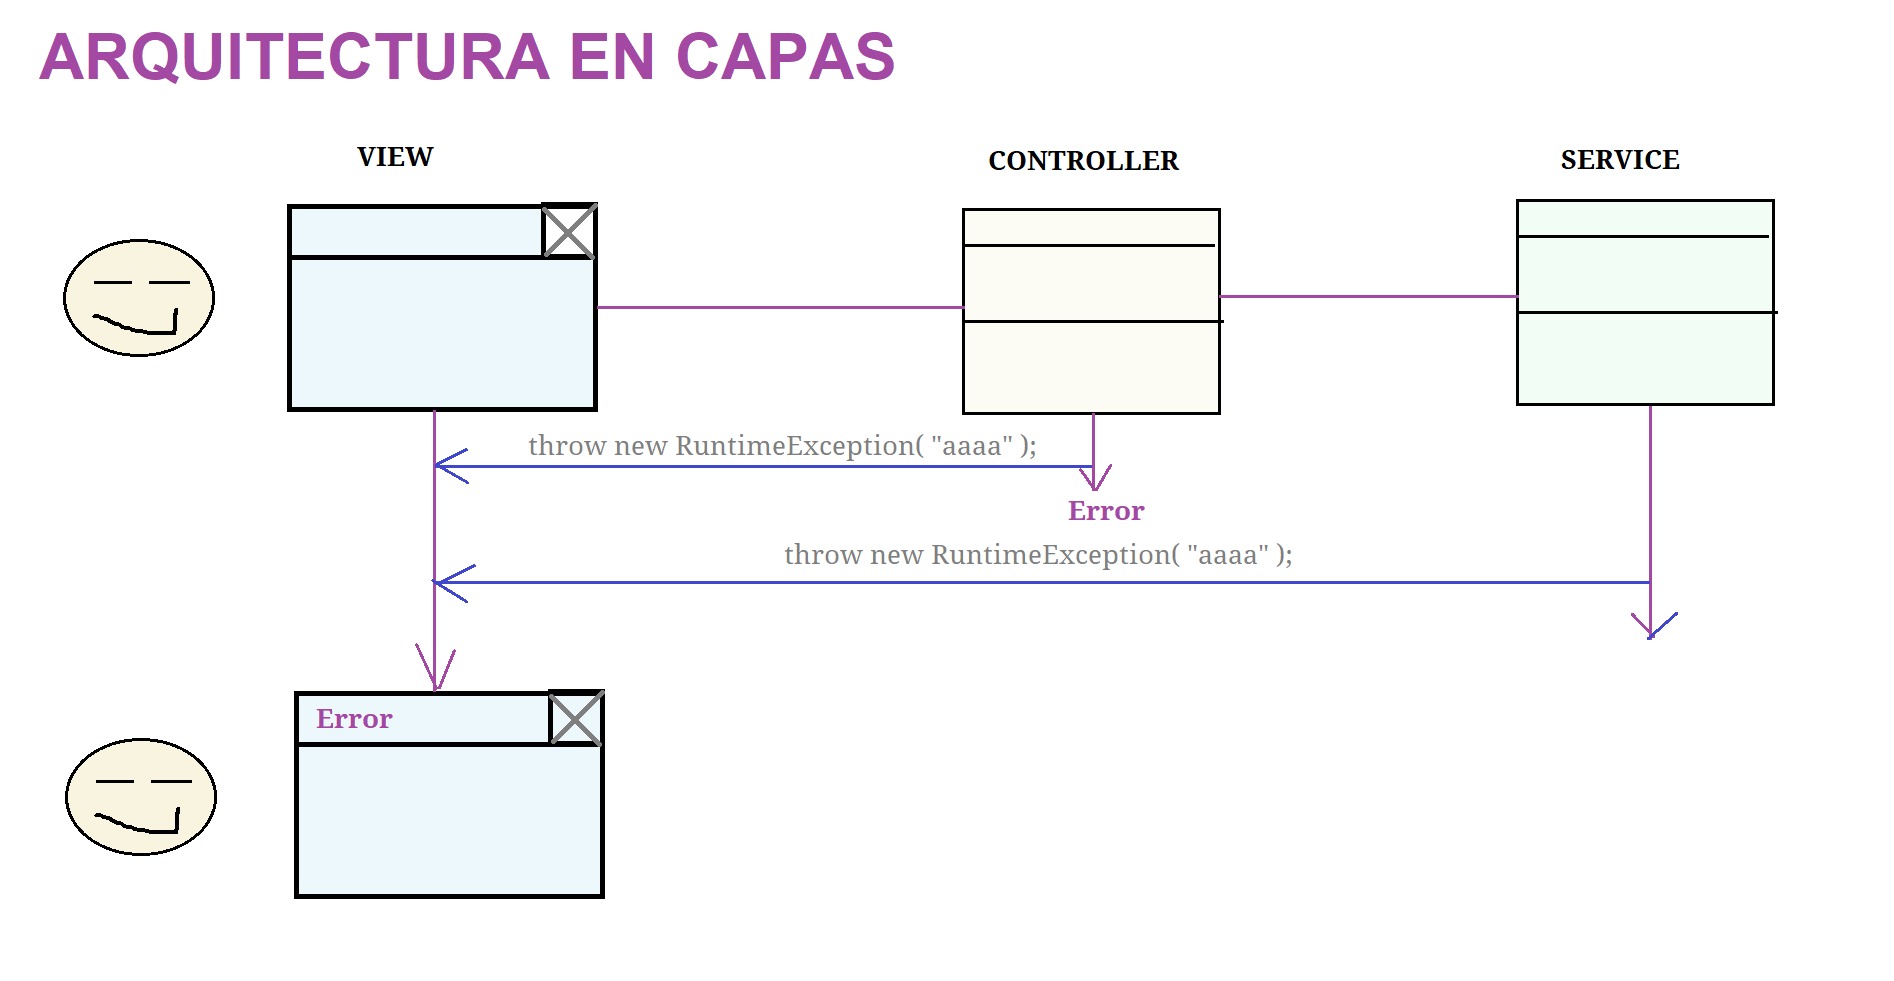
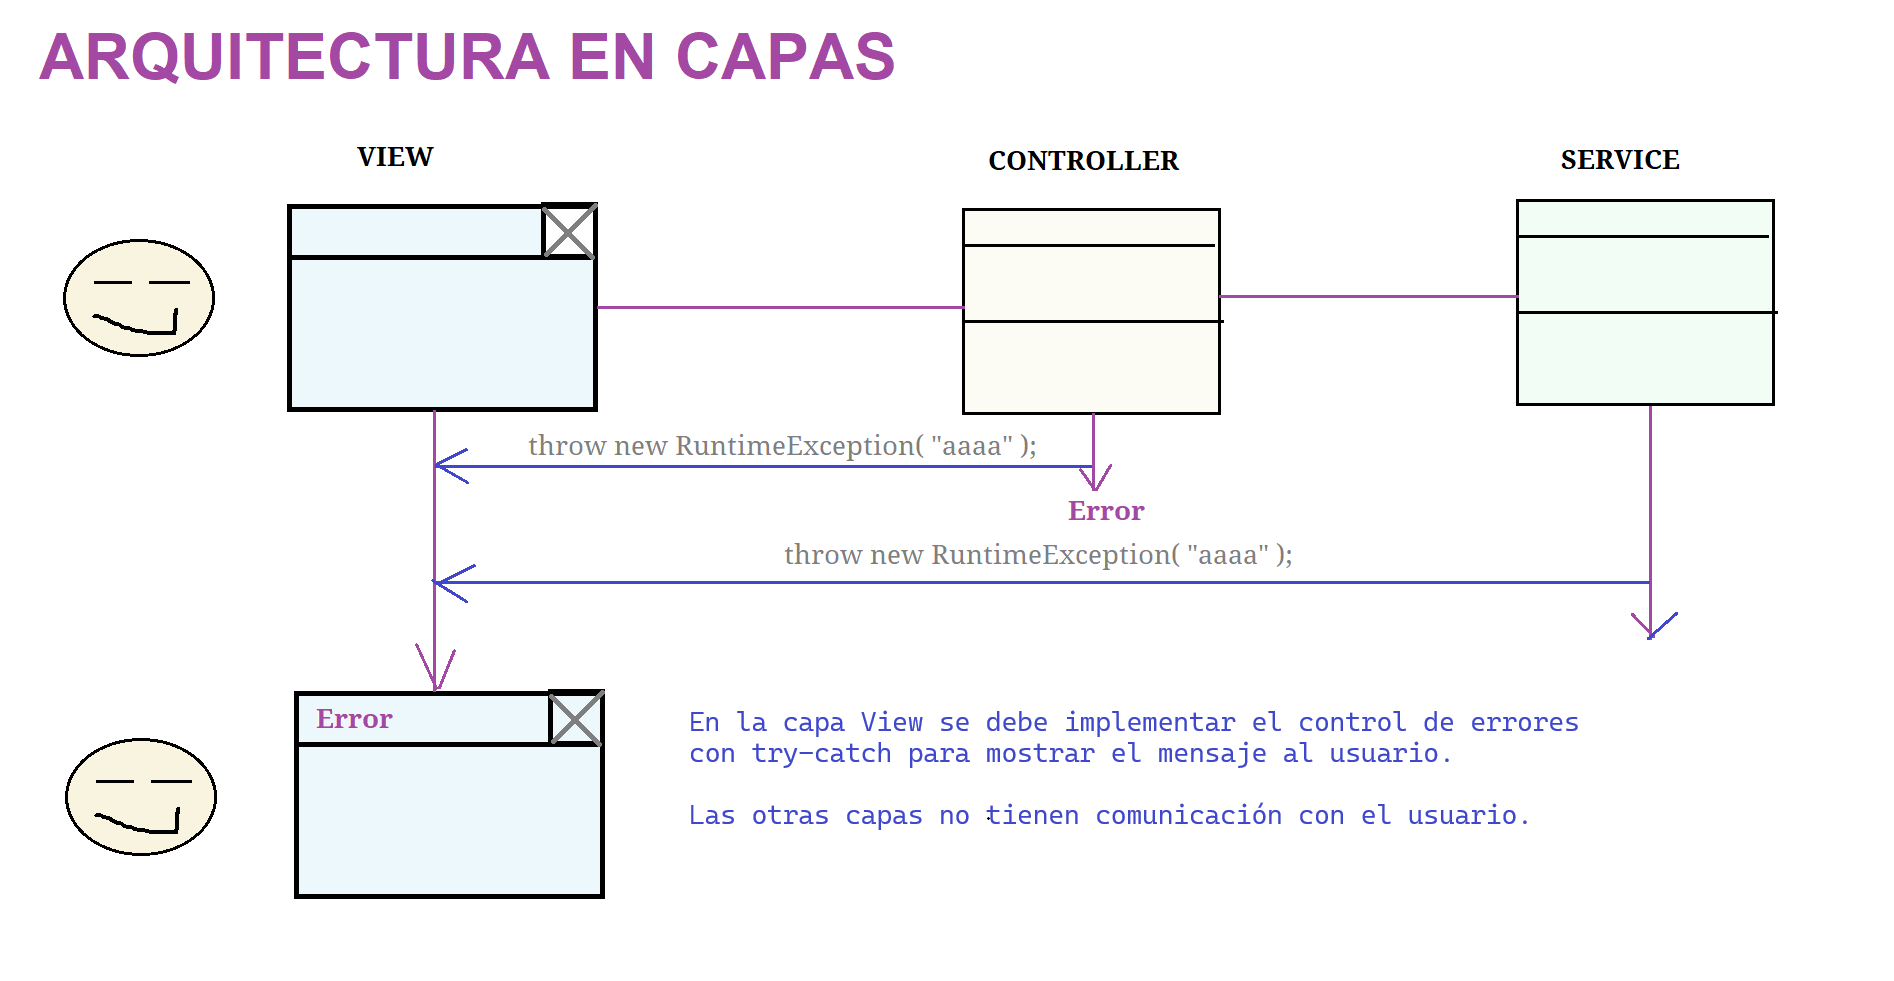
Semana 3

Changed region(s): [[0.3738, 0.7339, 0.8411, 0.7951], [0.3738, 0.8257, 0.8099, 0.8563]]

diff --git a/Semana03_10ABR26/PedidoApp/src/main/java/pe/edu/uni/pedidoapp/dto/PedidoDto.java b/Semana03_10ABR26/PedidoApp/src/main/java/pe/edu/uni/pedidoapp/dto/PedidoDto.java
@@ -1,0 +1,60 @@
+package pe.edu.uni.pedidoapp.dto;
+
+/**
+ *
+ * @author Eric Gustavo Coronel Castillo
+ * @blog https://gcoronelc.blogspot.com/
+ * @email gcoronelc@gmail.com
+ * @youtube https://www.youtube.com/DesarrollaSoftware
+ * @facebook https://www.facebook.com/groups/desarrollasoftware/
+ * @cursos https://gcoronelc.github.io/
+ */
+public class PedidoDto {
+
+	private double importe;
+	private double impuesto;
+	private double total;
+
+	public PedidoDto() {
+		this.importe = 0.0;
+		this.impuesto = 0.0;
+		this.total = 0.0;
+	}
+
+	public PedidoDto(double importe) {
+		this.importe = importe;
+		this.impuesto = 0.0;
+		this.total = 0.0;
+	}
+
+	public PedidoDto(double importe, double impuesto, double total) {
+		this.importe = importe;
+		this.impuesto = impuesto;
+		this.total = total;
+	}
+
+	public double getImporte() {
+		return importe;
+	}
+
+	public void setImporte(double importe) {
+		this.importe = importe;
+	}
+
+	public double getImpuesto() {
+		return impuesto;
+	}
+
+	public void setImpuesto(double impuesto) {
+		this.impuesto = impuesto;
+	}
+
+	public double getTotal() {
+		return total;
+	}
+
+	public void setTotal(double total) {
+		this.total = total;
+	}
+
+}

diff --git a/Semana03_10ABR26/PedidoApp/src/main/java/pe/edu/uni/pedidoapp/service/PedidoService.java b/Semana03_10ABR26/PedidoApp/src/main/java/pe/edu/uni/pedidoapp/service/PedidoService.java
@@ -1,5 +1,6 @@
 package pe.edu.uni.pedidoapp.service;
 
+import pe.edu.uni.pedidoapp.dto.PedidoDto;
 import pe.edu.uni.pedidoapp.exception.ImporteNegativoException;
 
 public class PedidoService {
@@ -35,6 +36,25 @@ public class PedidoService {
 		valor = valor * 100;
 		valor = Math.round(valor) / 100.0;
 		return valor;
+	}
+	
+	
+	// Para el uso del DTO
+	
+	public PedidoDto procesar(double importe){
+		// Validacion
+		if(importe <= 0.0){
+			throw new ImporteNegativoException(importe);
+			//throw new RuntimeException("[ERROR] El importe debe ser mayor que cero.");
+		}
+		// Proceso
+		double impuesto = importe * IGV;
+		double total = importe + impuesto;
+		// Reporte
+		impuesto = dosDigitos(impuesto);
+		total = dosDigitos(total);
+		PedidoDto dto = new PedidoDto(importe, impuesto, total);
+		return dto;
 	}
 
 }

diff --git a/Semana03_10ABR26/PedidoApp/src/main/java/pe/edu/uni/pedidoapp/prueba/Prueba03.java b/Semana03_10ABR26/PedidoApp/src/main/java/pe/edu/uni/pedidoapp/prueba/Prueba03.java
@@ -1,0 +1,29 @@
+package pe.edu.uni.pedidoapp.prueba;
+
+import pe.edu.uni.pedidoapp.dto.PedidoDto;
+import pe.edu.uni.pedidoapp.exception.ImporteNegativoException;
+import pe.edu.uni.pedidoapp.service.PedidoService;
+
+public class Prueba03 {
+    
+    public static void main(String[] args) {
+		 
+		 try {
+			 
+			 double importe, impuesto, total;
+			 // Datos
+			 importe = 500;
+			 // Proceso
+			 PedidoService service = new PedidoService();
+			 PedidoDto dto = service.procesar(importe);
+			 // Reporte
+			 System.out.println("Importe: " + dto.getImporte());
+			 System.out.println("Impuesto: " + dto.getImpuesto());
+			 System.out.println("Total: " + dto.getTotal());
+			 
+		 } catch (ImporteNegativoException ex) {
+			 System.err.println(ex.getMessage());
+		 }
+        
+    }
+}
